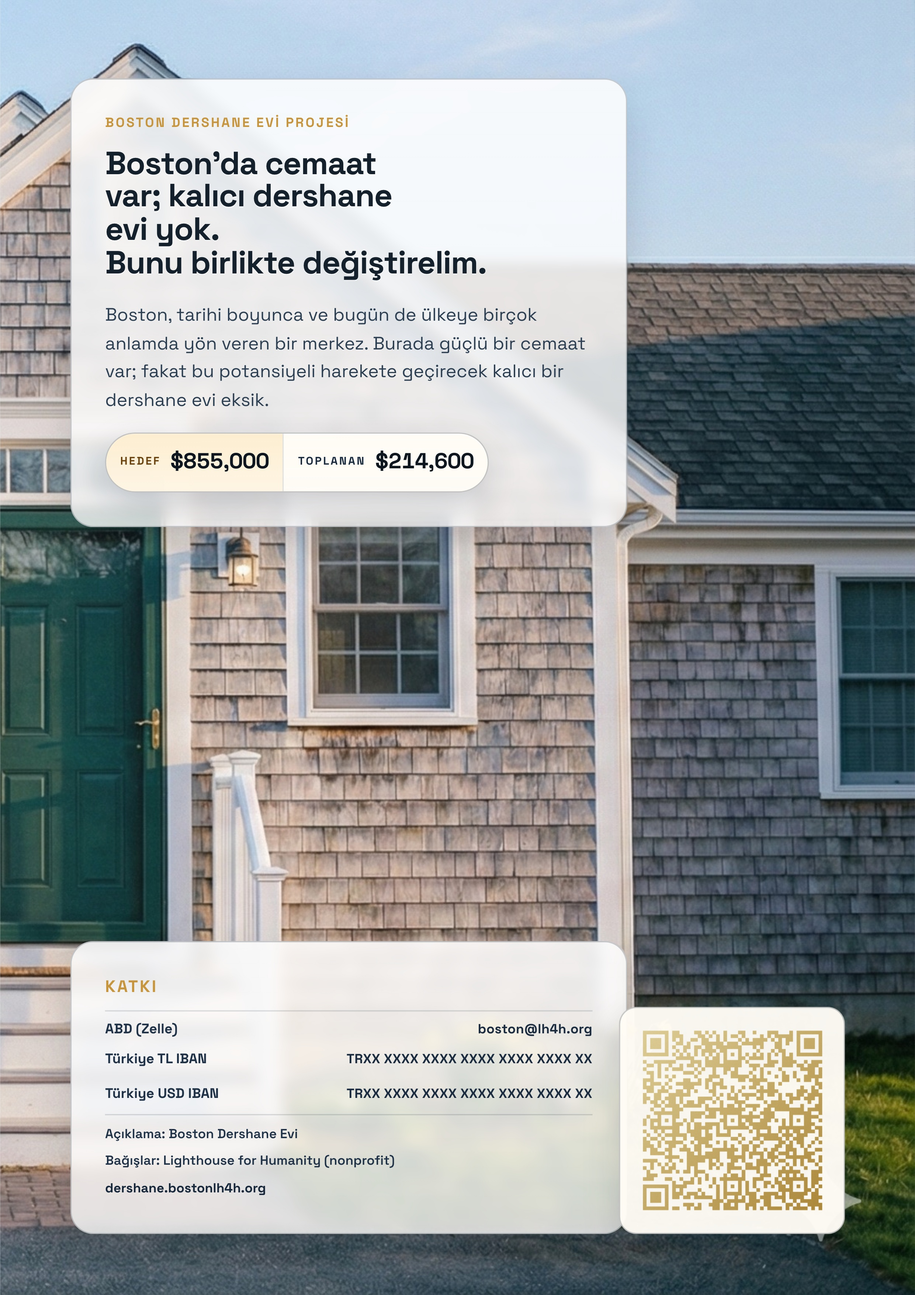
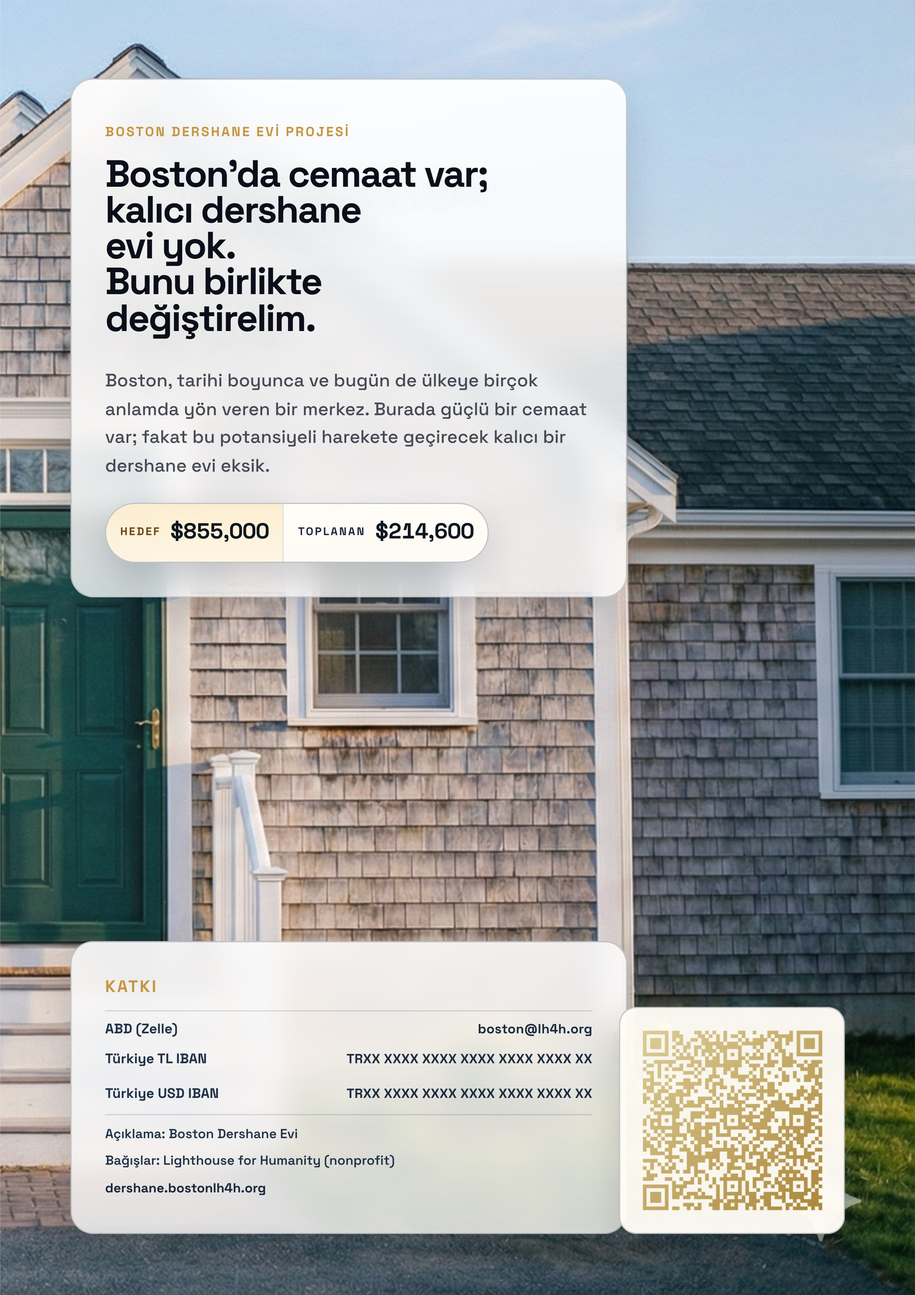
Punch up poster headline hierarchy and re-export poster JPEG

Changed region(s): [[0.0621, 0.0932, 0.6828, 0.4659], [0.5276, 0.2174, 0.5586, 0.2485]]

diff --git a/poster.html b/poster.html
@@ -28,7 +28,7 @@
 	      --panel-radius: 5.2mm;
 	      --panel-shadow: 0 16px 40px rgba(18, 30, 46, 0.18);
 	      --panel-pad: 7.8mm;
-		      --panel-blur: 6px;
+		      --panel-blur: 12px;
 
 		      --pill-bg: rgba(255, 252, 246, 0.97);
 		      --pill-border: rgba(18, 30, 46, 0.26);
@@ -126,13 +126,24 @@
 		      -webkit-backdrop-filter: blur(var(--panel-blur)) saturate(1.01);
 		    }
 
-	    .poster__panel {
-	      position: absolute;
-	      z-index: 1;
-	      left: 16mm;
-	      top: 18mm;
-	      width: 128mm;
-	    }
+		    .poster__panel {
+		      position: absolute;
+		      z-index: 1;
+		      left: 16mm;
+		      top: 18mm;
+		      width: 128mm;
+		    }
+
+		    /* Give the headline a clearer "stage" without changing the overall system. */
+		    .poster__panel.glass-panel {
+		      background: linear-gradient(
+		        180deg,
+		        rgba(255, 255, 255, 0.92) 0%,
+		        rgba(255, 255, 255, 0.86) 38%,
+		        rgba(255, 255, 255, 0.78) 100%
+		      );
+		      padding-top: calc(var(--panel-pad) + 2.2mm);
+		    }
 
 	    .kicker {
 	      margin: 0 0 4mm;
@@ -143,25 +154,29 @@
 	      color: var(--c-gold-3);
 	    }
 
-	    .headline {
-	      margin: 0 0 5mm;
-	      font-size: var(--fs-h1);
-	      line-height: 1.03;
-	      letter-spacing: -0.02em;
-	      font-weight: 700;
-	      width: 22ch;
-	      max-width: 100%;
-	      color: var(--c-ink);
-	      text-shadow: 0 1px 0 rgba(255, 255, 255, 0.45);
-	    }
+		    .headline {
+		      margin: 0 0 7mm;
+		      font-size: calc(var(--fs-h1) * 1.18);
+		      line-height: 0.95;
+		      letter-spacing: -0.035em;
+		      font-weight: 800;
+		      width: 21ch;
+		      max-width: 100%;
+		      color: #0a0f1a;
+		      text-shadow:
+		        0 1px 0 rgba(255, 255, 255, 0.35),
+		        0 10px 30px rgba(0, 0, 0, 0.1);
+		      -webkit-text-stroke: 0.25px rgba(0, 0, 0, 0.12);
+		    }
 
-	    .supporting {
-	      margin: 0 0 4.2mm;
-	      font-size: var(--fs-sub);
-	      line-height: 1.56;
-	      color: var(--c-ink-soft);
-	      max-width: 56ch;
-	    }
+		    .supporting {
+		      margin: 0 0 5.2mm;
+		      font-size: var(--fs-sub);
+		      line-height: 1.56;
+		      color: rgba(11, 18, 32, 0.74);
+		      font-weight: 500;
+		      max-width: 56ch;
+		    }
 
 		    .funding__capsule {
 	      display: inline-flex;
@@ -363,12 +378,13 @@
 		  <article class="poster" role="img" aria-label="Boston Dershane Evi premium posteri">
 		      <section class="poster__panel glass-panel" aria-label="Proje özeti paneli">
 		        <p class="kicker">BOSTON DERSHANE EVİ PROJESİ</p>
-	        <h1 class="headline">
-	          Boston’da cemaat<br>
-	          var; kalıcı dershane<br>
-	          evi yok.<br>
-	          Bunu birlikte değiştirelim.
-	        </h1>
+		        <h1 class="headline">
+		          Boston’da cemaat var;<br>
+		          kalıcı dershane<br>
+		          evi yok.<br>
+		          Bunu birlikte<br>
+		          değiştirelim.
+		        </h1>
 	        <p class="supporting">Boston, tarihi boyunca ve bugün de ülkeye birçok anlamda yön veren bir merkez. Burada güçlü bir cemaat var; fakat bu potansiyeli harekete geçirecek kalıcı bir dershane evi eksik.</p>
 
 	        <div class="funding__capsule" aria-label="Proje durumu">
